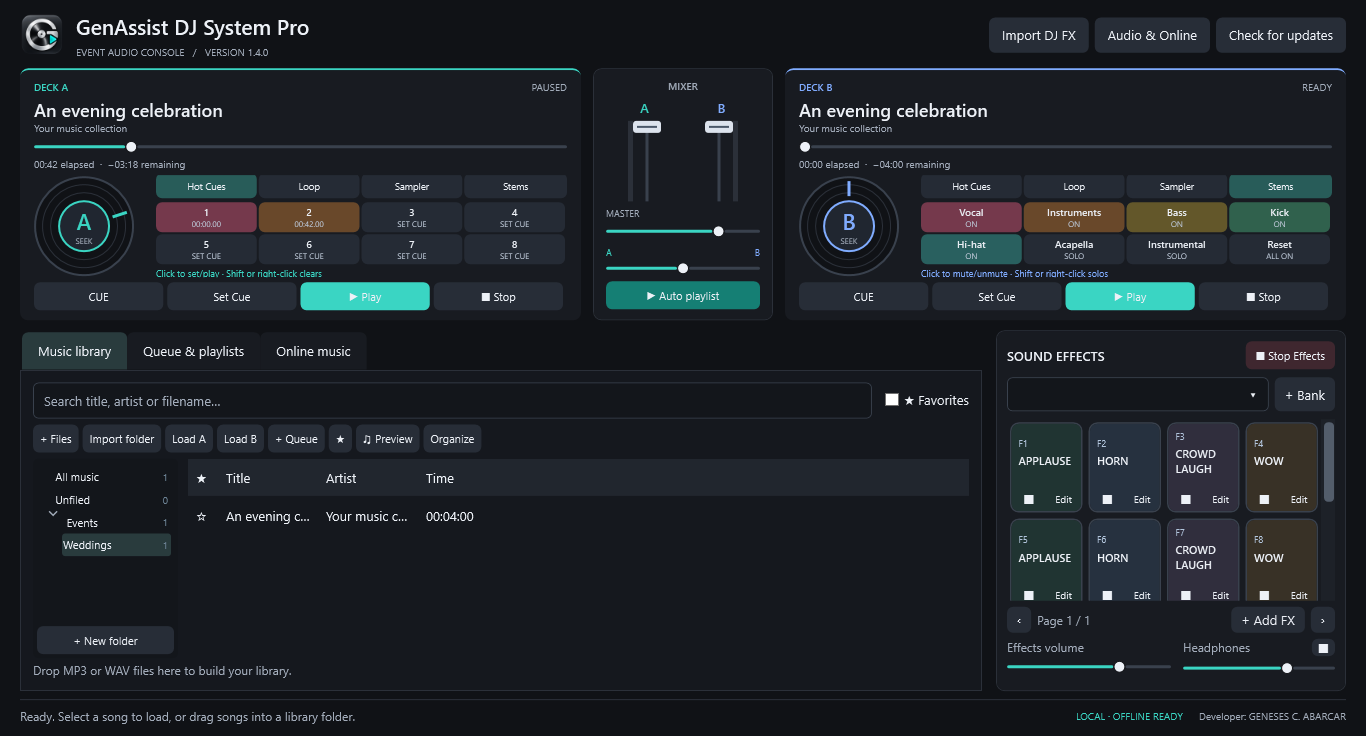
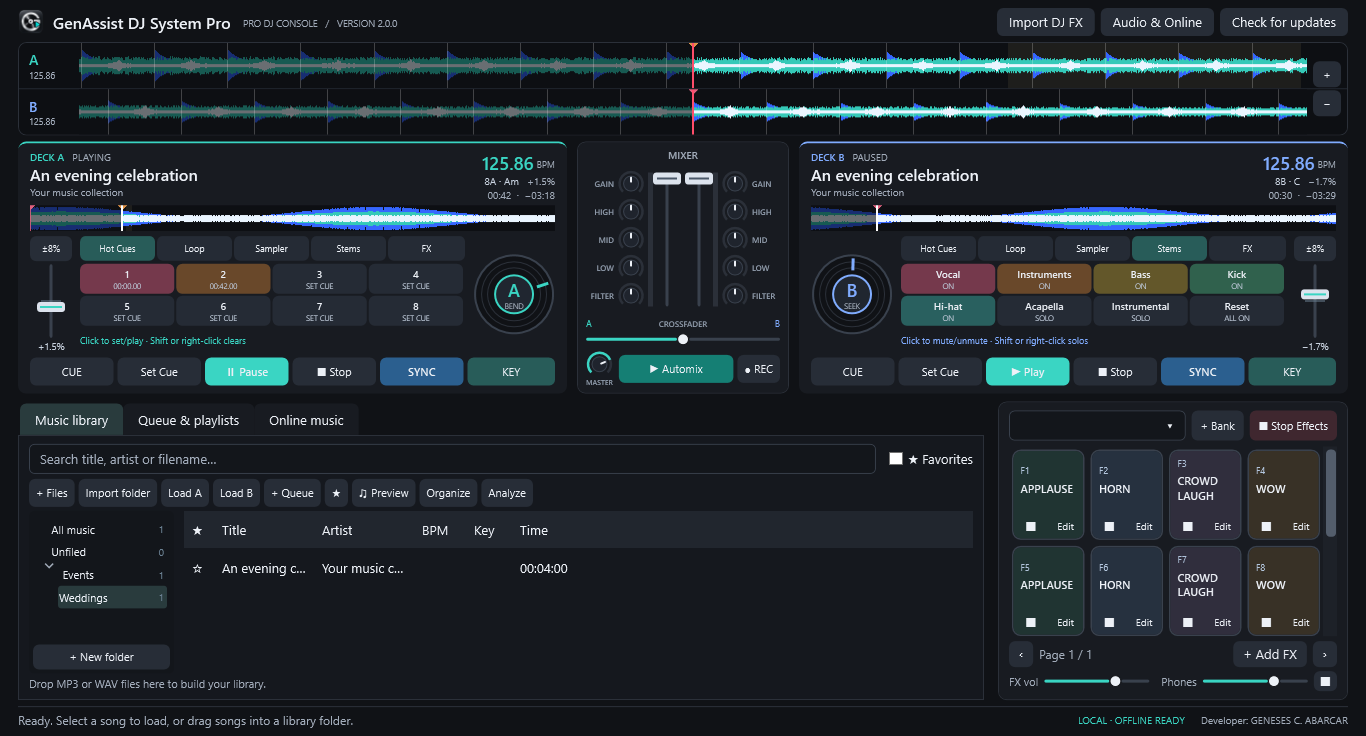
Document the 2.0.0 pro DJ console

diff --git a/README.md b/README.md
@@ -2,7 +2,7 @@
 
 **Developer: GENESES C. ABARCAR**
 
-A professional Windows event audio console with two music decks, sound-effect banks, automatic playlist fades and independent headphone preview.
+A professional Windows DJ console with two decks, colored scrolling waveforms, automatic BPM and key detection, tempo with key lock, SYNC, a three-band kill EQ and filter, FX pads, beat loops, mix recording, sound-effect banks, Automix and independent headphone preview.
 
 <img src="assets/app-icon.png" width="112" alt="GenAssist DJ System Pro icon">
 
@@ -12,7 +12,7 @@ A professional Windows event audio console with two music decks, sound-effect ba
 
 Get the Windows x64 ZIP from the [latest official release](https://github.com/EduFilesPH/genassist-dj-system-pro-releases/releases/latest).
 
-Version **1.4.0** adds local AI Stem pads for Vocal, Instruments, Bass, Kick and Hi-hat. It retains Hot Cues, Loop and Sampler pads, virtual music-library folders, the live-playback buzzing fix and in-app updates. Existing effects do not need to be imported again.
+Version **2.0.0** turns the console into a pro DJ workstation. It adds waveforms, automatic BPM/key analysis, tempo with key lock, SYNC, a kill EQ and filter, FX pads, beat loops and mix recording. It retains Hot Cues, Sampler and local AI Stems pads, virtual folders and in-app updates. Existing library data, cue points and effects are kept.
 
 1. Extract the entire ZIP to a folder.
 2. Open the extracted folder and double-click **GenAssist DJ System Pro.exe**. Keep the DLLs and runtime files alongside it.
@@ -21,13 +21,27 @@ Version **1.4.0** adds local AI Stem pads for Vocal, Instruments, Bass, Kick and
 The download includes its .NET runtime. Application data is stored in `%LOCALAPPDATA%\GenAssist\DJSystemPro`.
 
 
-## DJ controls and folders
+## Pro DJ console
 
-**Set Cue** saves the current position; **CUE** pauses and returns there. Drag or scroll a jog wheel to seek; Shift gives finer movement. Choose **Hot Cues**, **Loop**, **Sampler**, or **Stems** above either deck's eight performance pads; each deck remembers its mode after restart.
+The layout follows professional DJ software. Stacked scrolling waveforms run across the top, deck A is on the left, the mixer is in the center and deck B is on the right. The library and sound effects sit below.
+
+- **Waveforms:** colored by band (bass blue, mids teal, highs white), with beat lines, cue markers, the loop region and a red playhead. Each deck also has an overview of the whole song; click or drag it to move through the song. Scroll over the waveforms or use **+ / −** to zoom. The strip grows on taller screens.
+- **Analysis:** loading a song detects its BPM, beat grid and key in the background, shown in Camelot and musical notation, for example **8A · Am**. **Analyze** in the library processes selected songs, or every song not yet analyzed. BPM and Key columns sort the library, and results are cached and redone if a file changes. Tempos are reported between 78 and 185 BPM, so half- or double-time music can read at the other octave; SYNC handles both. Detection is automatic and can be wrong on songs without a steady beat.
+- **Tempo:** each tempo fader sits on the console's outer edge. Down is faster, as on DJ hardware; double-click to reset. **±8%** cycles through ±8, ±16 and ±50%. **KEY** (key lock, on by default) keeps the musical key when the tempo changes; turn it off for vinyl-style pitch.
+- **SYNC:** matches tempo to the other deck (allowing half/double time) and lines up the beats when both decks play. Both SYNC buttons light while the tempos match.
+- **Jog wheels:** while paused, drag to seek or scroll for one second. While playing, dragging bends the tempo to nudge beats into line.
+- **Mixer:** each channel has GAIN (±12 dB), HIGH/MID/LOW EQ and a FILTER knob. Turning an EQ knob fully left kills that band; turning right boosts up to +6 dB. The filter is a low-pass to the left and a high-pass to the right. Level meters, channel faders, the crossfader and the MASTER knob complete the mixer. With every control centered, the audio is unchanged.
+- **REC:** records the master output to a 16-bit 48 kHz WAV in `Music\GenAssist Recordings`. Right-click it to open or change the folder.
+- **Automix** (formerly Auto playlist) plays the queue with crossfades.
+
+## Deck pads and folders
+
+**Set Cue** saves the current position; **CUE** pauses and returns there. Choose **Hot Cues**, **Loop**, **Sampler**, **Stems** or **FX** above either deck's eight performance pads; each deck remembers its mode after restart.
 
 - **Hot Cues:** click an empty pad 1–8 to save a position, then click again to jump and play. Shift-click or right-click clears it. Existing four-cue tracks keep their saved positions.
-- **Loop:** **In/Out** marks a manual loop; **Exit** continues forward and **Reloop** recalls it. **½ Loop / 2× Loop** resize it, and **1s / 2s / 4s** loop that many seconds from the current position. Click the active length to exit. These loops use seconds and manual positions, without automatic beatmatching or beat quantization.
+- **Loop:** **In/Out** marks a manual loop; **Exit** continues forward and **Reloop** recalls it. **½ Loop / 2× Loop** resize it. Once the BPM is detected, the last three pads are **2 / 4 / 8-beat** auto loops that start on the nearest beat. Before analysis, they loop 1, 2 or 4 seconds. Click the active length to exit.
 - **Sampler:** click to play/restart your existing bank sounds over music. Shift-click or right-click stops a sample. **‹ / ›** pages through eight sounds independently per deck. Bank selection, sound imports, labels and volume are in **Sound effects**. Both panels share the same sounds; sampler use and mode switching keep automatic music running.
+- **FX:** **Echo ½**, **Echo 1**, **Reverb**, **Flanger**, **Gate** and **Crush** follow the song's tempo and can be combined. Echo and reverb tails ring out after you switch them off, even after Stop. **Brake** slows the deck to a vinyl stop, and **FX Off** clears every deck effect.
 - **Stems:** load an ordinary song, choose **Prepare**, and let the app separate and cache it locally while playback continues. Click Vocal, Instruments, Bass, Kick or Hi-hat to mute/unmute; Shift-click or right-click solos a part. Acapella, Instrumental and Reset provide common mixes. The first use automatically downloads the optional CPU engine (242 MB) and models (about 522 MB); no Python installation is needed and no music is uploaded. Preparation takes time and the five-part cache uses about 115 MB per minute. All-on playback uses the original samples. Separation quality varies by song; Instruments includes remaining percussion. See [the stem guide and model terms](STEMS.md), including the DrumSep weights' undocumented commercial-use license.
 
 Choose **All music**, then **+ New folder** to create a folder. Select a folder first to create a subfolder. Ctrl-click or Shift-click songs, then drag them into a folder or use **Organize -> Add to folder**. Right-click a folder to rename or remove it. Parent folders include songs from their subfolders; **Unfiled** shows songs outside all folders. Removing a folder or its song references keeps songs in All music and keeps audio files in place. Folders and cue points are saved after closing the app.
@@ -40,13 +54,17 @@ Versions before **1.1.2** need one manual download to gain this feature: close t
 
 ## Features
 
+- Pro DJ layout with stacked scrolling waveforms, beat grids and per-deck overview waveforms.
+- Automatic BPM, beat grid and key (Camelot) detection with sortable library columns.
+- Tempo faders (±8/16/50%) with key lock, SYNC with beat alignment and jog-wheel pitch bend.
+- Per-channel gain, HIGH/MID/LOW kill EQ, low/high-pass filter, level meters and crossfader.
+- One-click WAV recording of the master mix.
 - Two independent decks with jog seeking, Cue/Set Cue and eight saved hot cues.
-- Eight performance pads per deck with Hot Cues, manual/preset Loop, Sampler and local AI Stems modes.
+- Eight performance pads per deck with Hot Cues, beat/manual Loop, Sampler, local AI Stems and FX modes.
 - Sound-effect pads with overlapping playback, per-pad stop and shortcuts.
 - Virtual music folders and subfolders with multi-song drag/drop and Organize menus. Audio files stay in their original locations.
 - Music library, favorites, queue and saved playlists.
-- Central mixer with vertical A/B channel faders, measured signal meters, master volume and crossfader.
-- Automatic playlist playback with adjustable fades.
+- Automix queue playback with adjustable crossfades.
 - Separate speaker and headphone output devices.
 - Optional Jamendo discovery and licensed downloads using your own client ID.
 - Clean dark console and native Windows app icon.
@@ -54,4 +72,4 @@ Versions before **1.1.2** need one manual download to gain this feature: close t
 
 This public repository contains release documentation and packaged downloads. Application source is maintained privately. Third-party notices and required third-party source/license files accompany the Windows download. Original DJ FX PRO audio is not redistributed.
 
-The Windows binary is currently unsigned. Headphone isolation requires two separately addressable playback devices. Live Jamendo use requires your own client ID.
+The Windows binary is currently unsigned. Microphone input, MIDI controllers, video and MP3 recording are not included. Headphone isolation requires two separately addressable playback devices. Live Jamendo use requires your own client ID.

diff --git a/CHANGELOG.md b/CHANGELOG.md
@@ -1,5 +1,17 @@
 # Release notes
 
+## 2.0.0 — 7 October 2026
+
+- Added a pro DJ layout. Stacked colored scrolling waveforms with beat lines, cue markers and loop region run across the top, with per-deck overview waveforms (click or drag to move through the song) and zoom.
+- Added automatic BPM, beat grid and key detection, shown on the decks and as sortable BPM/Key library columns, plus **Analyze** for the library. Results are cached and refreshed when a file changes.
+- Added tempo faders (±8/16/50%), **KEY** lock and jog-wheel pitch bend while playing. **SYNC** matches tempo, including half/double time, and lines up the beats.
+- Added per-channel GAIN, HIGH/MID/LOW kill EQ and a low/high-pass FILTER. With every control centered, playback is sample-identical to 1.4.0.
+- Added an **FX** pad page: Echo ½, Echo 1, Reverb, Flanger, Gate, Crush, Brake and FX Off. Echo and reverb tails ring out after stop.
+- Loop pads become 2/4/8-beat auto loops snapped to the beat grid once the BPM is known.
+- Added **REC** for 16-bit 48 kHz WAV recordings of the master mix. Auto playlist is now called **Automix**.
+
+On 1.1.2 or later, use **Check for updates → Update now → Restart and install**. Library data, cue points, effects and settings are preserved. The Windows package remains unsigned.
+
 ## 1.1.3 — 6 October 2026
 
 - Fixed buzzing and distortion during live Windows playback, including a single deck. Previous audio samples were being left in the playback buffer and accumulated into later audio.
